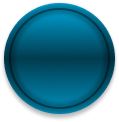
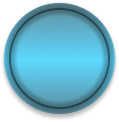
changed badge image and font shadow

diff --git a/src/pages/Profile/index.js b/src/pages/Profile/index.js
@@ -256,7 +256,10 @@ const styles = StyleSheet.create({
    badgeLabel: {
       fontSize: 36, 
       fontWeight: 'bold', 
-      color: 'white'
+      color: 'white',
+      textShadowColor: '#000', 
+      textShadowOffset: {width:2, height:2}, 
+      textShadowRadius: 1
    },
 
    badgeDescription: {
